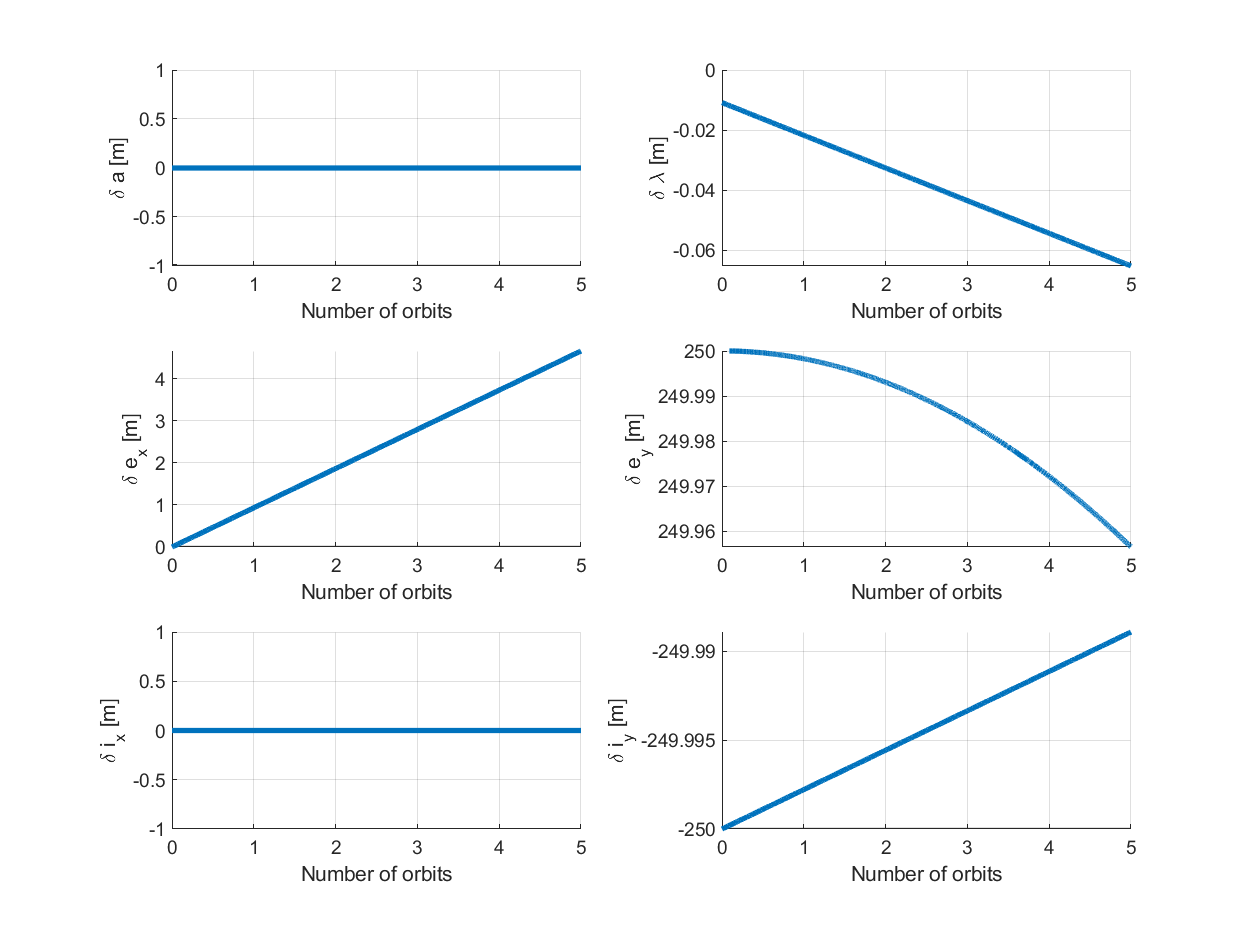
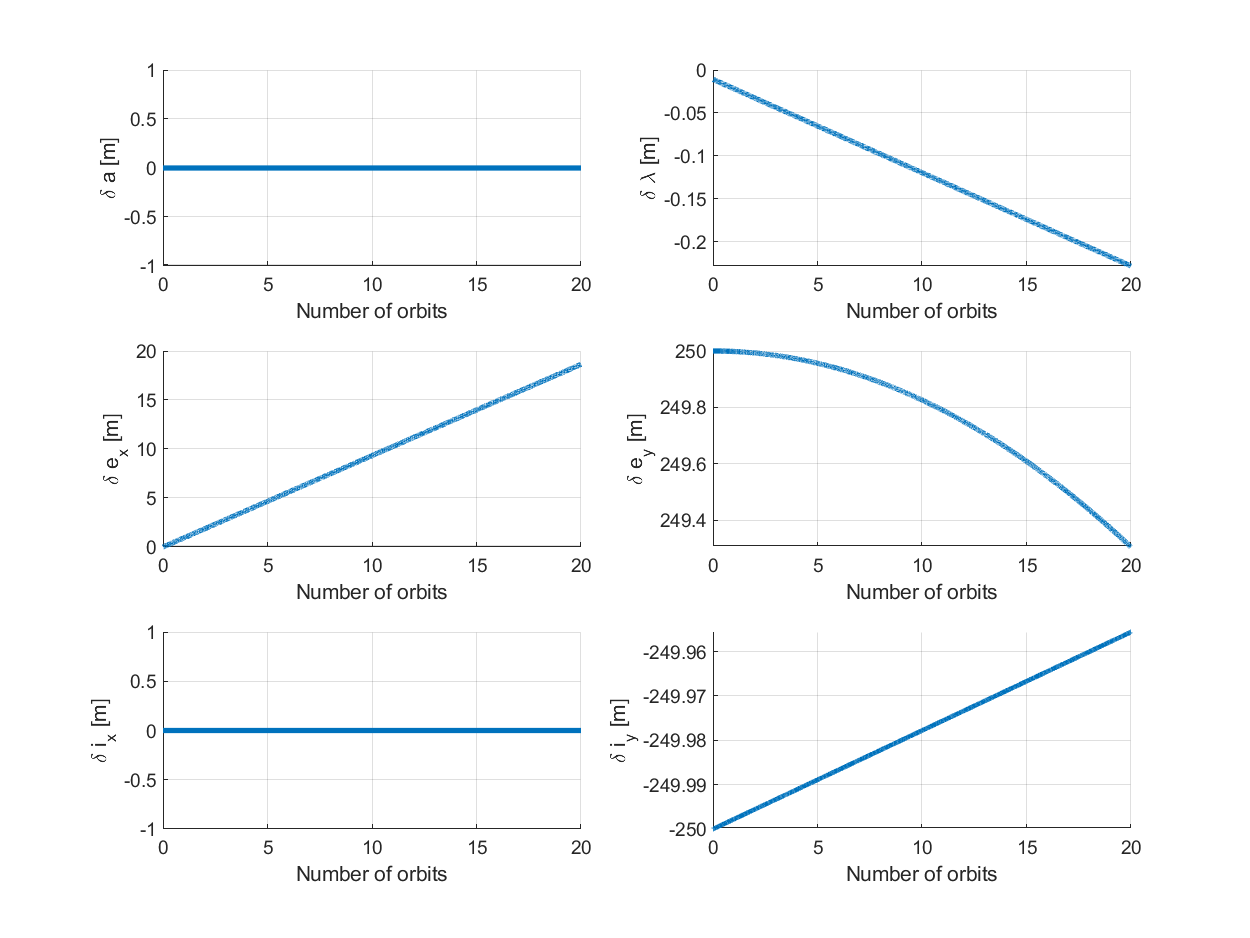
updates

diff --git a/sim/test_EKF_continuous.m b/sim/test_EKF_continuous.m
@@ -19,6 +19,7 @@ function test_EKF_continuous(SV2_modes, SV3_modes, num_orbits_modes, num_orbits_
     state_SV3_all = zeros(length(t_series), 6);
 
     SV1_OE_test = zeros(length(t_series), 6);
+    ROE_from_OE = zeros(length(t_series), 6);
 
     % Initialize delta-v and acceleration storage
     SV2_dv_vals = zeros(length(t_series), 3);
@@ -120,7 +121,7 @@ function test_EKF_continuous(SV2_modes, SV3_modes, num_orbits_modes, num_orbits_
     y_pred_EKF_SV3_all(1,:) = y_actual_EKF_SV3_all(1,:);
 
     % Process and measurement noise covariances
-    Q = 0.1* estimate_sigma; % similar to P_0 but much smaller
+    Q = 10* estimate_sigma; % similar to P_0 but much smaller
     %Q(1,1) = 1e4;
     %Q(2,2) = 1e3;
     %Q(5,5) = 1e1;
@@ -152,9 +153,11 @@ function test_EKF_continuous(SV2_modes, SV3_modes, num_orbits_modes, num_orbits_
 
         % Funky propagation fixes
         SV1_OE_state_inter = SV1_OE_state + (dt*secular_J2(t, SV1_OE_state))'; % propagate chief qns OE using GVE
-        SV1_OE_state = wrap_QNSOE(SV1_OE_state_inter);
+        SV1_OE_state = wrap_QNSOE(SV1_OE_state_inter); % wraps u to be within 0-360
         SV3_OE_state_inter = SV3_OE_state + (dt*secular_J2(t, SV3_OE_state))'; % propagate SV3 qns OE using GVE (take out later)
         SV3_OE_state = wrap_QNSOE(SV3_OE_state_inter);
+
+        ROE_from_OE(i,:) = OE2ROE(SV1_OE_state, SV3_OE_state);
 
         d_a_SV3_STM = ROEs_SV3_STM(i,1);
         d_lambda_SV3_STM =  ROEs_SV3_STM(i,2);
@@ -170,13 +173,25 @@ function test_EKF_continuous(SV2_modes, SV3_modes, num_orbits_modes, num_orbits_
         RAAN_o = SV1_OE_state(5);
         u_o = SV1_OE_state(6);
 
+        a_t = SV3_OE_state(1);
+        e_x_t = SV3_OE_state(2);
+        e_y_t = SV3_OE_state(3);
+        i_t = SV3_OE_state(4);
+        RAAN_t = SV3_OE_state(5);
+        u_t = SV3_OE_state(6);
+
+        % Use ROE STM for ground truth
         [r_ECI_SV3,v_ECI_SV3] = ROE2ECI(a_o,e_x_o,e_y_o,i_o,RAAN_o,u_o, ...
         d_a_SV3_STM,d_lambda_SV3_STM,d_e_x_SV3_STM,d_e_y_SV3_STM,d_i_x_SV3_STM,d_i_y_SV3_STM);
 
         [a_o,e_o,i_o,RAAN_o,w_o,nu_o, M_o] = quasi_nonsing2OE(a_o, e_x_o, e_y_o, i_o, RAAN_o, u_o); 
         [r_ECI_SV1,v_ECI_SV1] = OE2ECI(a_o,e_o,i_o,RAAN_o,w_o,nu_o);
 
-        SV1_OE_sing(i,:) = [a_o,e_o,i_o,RAAN_o,w_o,nu_o];
+        %SV1_OE_sing(i,:) = [a_o,e_o,i_o,RAAN_o,w_o,nu_o];
+
+        % Use GVE for ground truth
+        % [a_t,e_t,i_t,RAAN_t,w_t,nu_t, M_t] = quasi_nonsing2OE(a_t, e_x_t, e_y_t, i_t, RAAN_t, u_t); 
+        % [r_ECI_SV3,v_ECI_SV3] = OE2ECI(a_t,e_t,i_t,RAAN_t,w_t,nu_t);
 
         SV3_state = [r_ECI_SV3', v_ECI_SV3']';
         SV1_state = [r_ECI_SV1', v_ECI_SV1']';
@@ -198,9 +213,10 @@ function test_EKF_continuous(SV2_modes, SV3_modes, num_orbits_modes, num_orbits_
         x_update_EKF_SV3_prime_unscaled = x_update_EKF_SV3_prime_unscaled + dt*eom_ROE_prime(t, SV3_OE_state, SV1_OE_state); % propagate ROE with Euler
 
         x_pred_EKF_SV3_unscaled = ROE_prime2ROE(x_update_EKF_SV3_prime_unscaled,SV1_OE_state);
-        x_pred_EKF_SV3 = (x_pred_EKF_SV3_unscaled')*a_chief; % scaling by a_chief
+        %x_pred_EKF_SV3 = (x_pred_EKF_SV3_unscaled')*a_chief; % scaling by a_chief
 
-        %x_pred_EKF_SV3 = STM_curr*x_update_EKF_SV3;
+
+        x_pred_EKF_SV3 = STM_curr*x_update_EKF_SV3;
 
         % EKF Covariance Prediction
         P_pred_EKF_SV3 = STM_curr * P_update_EKF_SV3 * STM_curr' + Q;
@@ -213,11 +229,6 @@ function test_EKF_continuous(SV2_modes, SV3_modes, num_orbits_modes, num_orbits_
         SV3_RTN_pos = rho3';
         SV3_ECI_pos = SV3_state(1:3);
 
-        % [rho3, ~] = ECI2RTN_rel(SV1_state(1:3)', SV1_state(4:6)', SV3_state(1:3)', SV3_state(4:6)');
-        % SV3_RTN_pos = rho3';
-        % SV3_ECI_pos = SV3_state(1:3);
-
-        % TRY USING OTHER PROPAGATION FOR GROUND TRUTH
         
         RTN_noise = sqrtm(RTN_sigma)*randn(3,1); % use sigma value defined above
         ECI_noise = sqrtm(ECI_sigma)*randn(3,1);

diff --git a/sim/transformations/OE2ROE.m b/sim/transformations/OE2ROE.m
@@ -1,0 +1,21 @@
+function roe = OE2ROE(chief_oe_qns, deputy_oe_qns)
+
+    a_o = chief_oe_qns(1);
+    e_x_o = chief_oe_qns(2);
+    e_y_o = chief_oe_qns(3);
+    i_o = chief_oe_qns(4);
+    RAAN_o = chief_oe_qns(5);
+    u_o = chief_oe_qns(6);
+    a_t = deputy_oe_qns(1);
+    e_x_t = deputy_oe_qns(2);
+    e_y_t = deputy_oe_qns(3);
+    i_t = deputy_oe_qns(4);
+    RAAN_t = deputy_oe_qns(5);
+    u_t = deputy_oe_qns(6);
+
+
+    [d_a, d_lambda, d_e_x, d_e_y, d_i_x, d_i_y] = quasi_nonsing2ROE(a_o, e_x_o, e_y_o, i_o, RAAN_o, u_o, ...
+    a_t, e_x_t, e_y_t, i_t, RAAN_t, u_t);
+
+    roe = [d_a,d_lambda,d_e_x,d_e_y,d_i_x,d_i_y];
+end

diff --git a/sim/sim_main.m b/sim/sim_main.m
@@ -29,7 +29,7 @@ load_SV1;
 %%% PROPAGATION TIME DETAILS %%%
 tstart = 0; % Start time (s)
 t_orbit = 2*pi*sqrt(a_SV1_init^3/mu_earth);
-tend = 5*t_orbit; % End time (s)
+tend = 20*t_orbit; % End time (s)
 tint = t_orbit/500.0; % Time step (s)
 
 % Choose which simulations to run

diff --git a/sim/initialize_roe_and_modes.m b/sim/initialize_roe_and_modes.m
@@ -18,7 +18,7 @@ a_chief_meters = a_SV1_init*1e3;
 
 % Add up to 25 orbits
 num_orbits_modes = [0,0,0,0];
-num_orbits_station_keep = [5,0,0,0];
+num_orbits_station_keep = [20,0,0,0];
 
 SV2_ROE = SV2_modes(1, :);
 SV3_ROE = SV3_modes(1, :);
